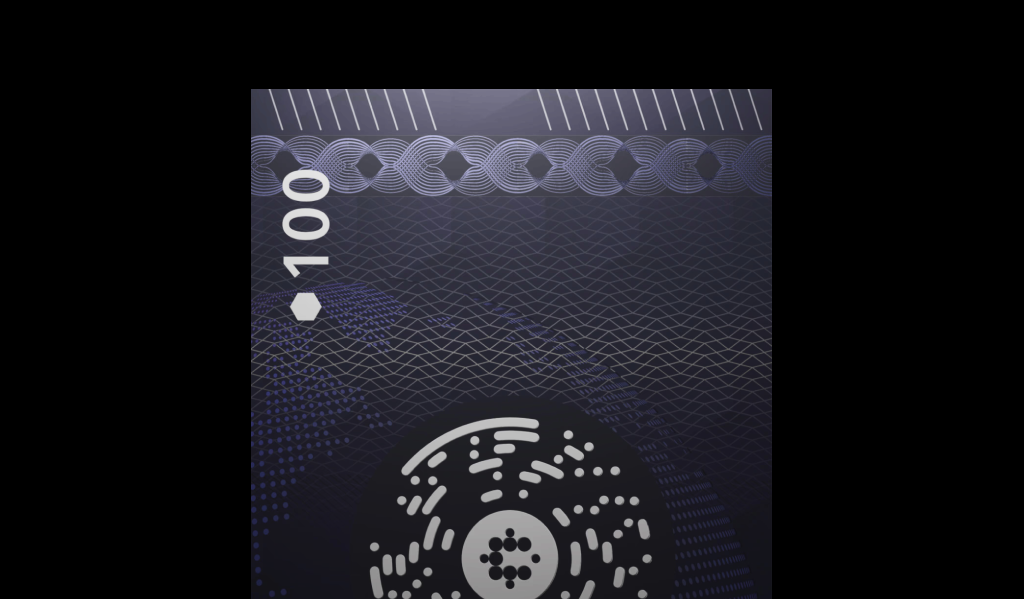
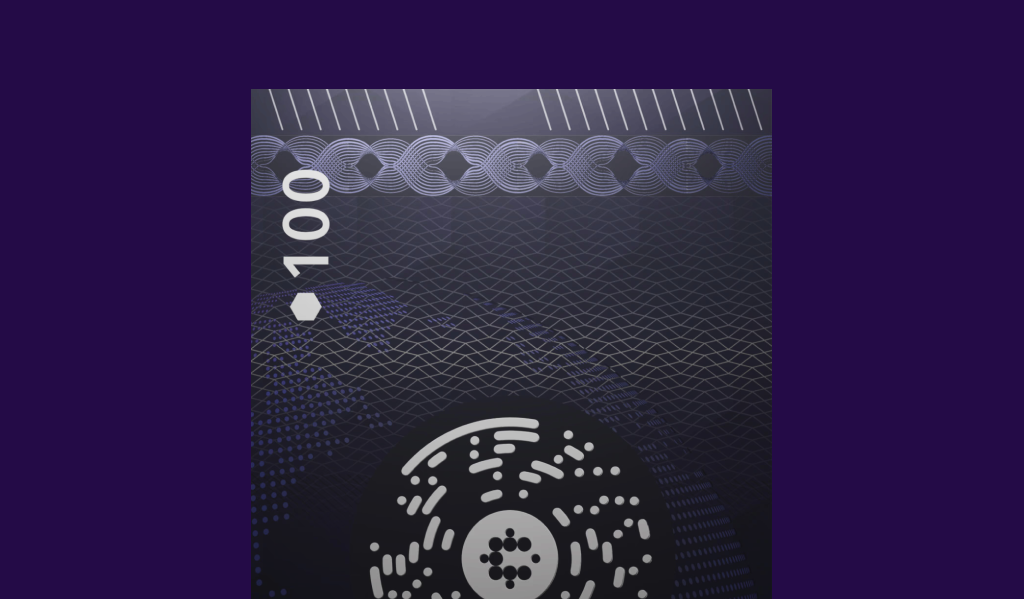
fix: update the style of app

diff --git a/app/components/multistep-sidebar.tsx b/app/components/multistep-sidebar.tsx
@@ -22,18 +22,18 @@ export type MultiStepSidebarProps = React.HTMLAttributes<HTMLDivElement> & {
 
 const stepperClasses = cn(
   // light
-  "[--step-color:hsl(var(--nextui-secondary-400))]",
-  "[--active-color:hsl(var(--nextui-secondary-400))]",
-  "[--inactive-border-color:hsl(var(--nextui-secondary-200))]",
-  "[--inactive-bar-color:hsl(var(--nextui-secondary-200))]",
-  "[--inactive-color:hsl(var(--nextui-secondary-300))]",
+    "[--step-color:#50defb]",
+    "[--active-color:#50defb]",
+    "[--inactive-border-color:#20A6C1]",
+    "[--inactive-bar-color:#20A6C1]",
+    "[--inactive-color:#20A6C1]",
   // dark
-  "dark:[--step-color:rgba(255,255,255,0.1)]",
-  "dark:[--active-color:hsl(var(--nextui-foreground-600))]",
-  "dark:[--active-border-color:rgba(255,255,255,0.5)]",
-  "dark:[--inactive-border-color:rgba(255,255,255,0.1)]",
-  "dark:[--inactive-bar-color:rgba(255,255,255,0.1)]",
-  "dark:[--inactive-color:rgba(255,255,255,0.2)]",
+    // "dark:[--step-color:rgba(255,255,255,0.1)]",
+    // "dark:[--active-color:hsl(var(--nextui-foreground-600))]",
+    // "dark:[--active-border-color:rgba(255,255,255,0.5)]",
+    // "dark:[--inactive-border-color:rgba(255,255,255,0.1)]",
+    // "dark:[--inactive-bar-color:rgba(255,255,255,0.1)]",
+    // "dark:[--inactive-color:rgba(255,255,255,0.2)]",
 );
 
 const MultiStepSidebar = React.forwardRef<HTMLDivElement, MultiStepSidebarProps>(
@@ -41,12 +41,12 @@ const MultiStepSidebar = React.forwardRef<HTMLDivElement, MultiStepSidebarProps>
     return (
       <div
         ref={ref}
-        className={cn("flex h-[calc(110vh_-_40px)] w-full gap-x-2", className)}
+        className={cn("flex h-screen p-[24px] w-full gap-x-2", className)}
         {...props}
       >
-        <div className="flex hidden h-full w-[344px] flex-shrink-0 flex-col items-start gap-y-8 rounded-large bg-custom-vertical-gradient px-8 py-6 shadow-small lg:flex">
+        <div className="hidden h-full w-[344px] flex-shrink-0 flex-col items-start gap-y-8 rounded-large bg-custom-vertical-gradient px-8 py-6 shadow-small lg:flex">
           <Button
-            className="bg-default-50 text-small font-medium text-default-500 shadow-lg"
+            className="bg-black text-small font-medium text-neutral-50"
             isDisabled={currentPage === 0}
             radius="full"
             variant="flat"
@@ -62,13 +62,12 @@ const MultiStepSidebar = React.forwardRef<HTMLDivElement, MultiStepSidebarProps>
                 PREVIEW
               </Chip>
             </div>
-            <div className="mt-1 text-base font-medium leading-6 text-default-500">
+            <div className="mt-1 text-base font-medium leading-6 text-neutral-400">
               Follow the simple steps to create your professional headshots.
             </div>
           </div>
           <VerticalSteps
             className={stepperClasses}
-            color="secondary"
             currentStep={currentPage}
             steps={[
               {
@@ -83,7 +82,7 @@ const MultiStepSidebar = React.forwardRef<HTMLDivElement, MultiStepSidebarProps>
             ]}
             onStepChange={onChangePage}
           />
-          <SupportCard className="w-full backdrop-blur-lg lg:bg-white/40 lg:shadow-none dark:lg:bg-white/20" />
+          <SupportCard className="w-full backdrop-blur-lg lg:bg-black lg:shadow-none dark:lg:bg-black" />
         </div>
         <div className="flex h-full w-full flex-col items-center gap-4 md:p-4">
           <div className="sticky top-0 z-10 w-full rounded-large bg-custom-horizontal-gradient from-default-100 via-danger-100 to-secondary-100 py-4 shadow-small md:max-w-xl lg:hidden">
@@ -106,7 +105,7 @@ const MultiStepSidebar = React.forwardRef<HTMLDivElement, MultiStepSidebarProps>
               />
             </div>
           </div>
-          <div className="h-full w-full p-4 sm:max-w-md md:max-w-lg">
+          <div className="h-full w-full p-4">
             {children}
             <MultistepNavigationButtons
               backButtonProps={{ isDisabled: currentPage === 0 }}

diff --git a/app/components/select-preferences.tsx b/app/components/select-preferences.tsx
@@ -38,8 +38,8 @@ const SelectPreferences: React.FC<SelectPreferencesProps> = ({
   return (
     <div className="flex max-w-4xl flex-col items-center py-12">
       <div className="flex max-w-xl flex-col text-center">
-        <h2 className="font-medium text-primary">Settings</h2>
-        <h1 className="text-4xl font-medium tracking-tight">Select Your Style</h1>
+        <h2 className="font-medium text-upic-primary">Settings</h2>
+        <h1 className="text-4xl text-neutral-300 font-medium tracking-tight">Select Your Style</h1>
         <Spacer y={4} />
         <h2 className="text-large text-default-500">
           Choose Your Preferences for your professional headshot.
@@ -49,6 +49,7 @@ const SelectPreferences: React.FC<SelectPreferencesProps> = ({
       <Tabs
         classNames={{
           tab: "data-[hover-unselected=true]:opacity-90 px-4",
+          tabList: "bg-black/90"
         }}
         radius="full"
         size="lg"
@@ -69,7 +70,7 @@ const SelectPreferences: React.FC<SelectPreferencesProps> = ({
         value={selectedOption}
         onValueChange={handleOptionChange}
         classNames={{
-          wrapper: "grid grid-cols-1 gap-6 md:gap-4 sm:grid-cols-2 lg:grid-cols-2",
+          wrapper: "w-fit grid grid-cols-1 gap-6 md:gap-4 sm:grid-cols-2 lg:grid-cols-2",
         }}
       >
         {preferenceOptions
@@ -79,11 +80,12 @@ const SelectPreferences: React.FC<SelectPreferencesProps> = ({
               <PreferenceRadioItem
                 value={option.key}
                 title={option.title.replace(' Male', '').replace(' Female', '')}
+                className="flex"
                 description={
                   <img
                     src={option.imageUrl}
                     alt={option.title}
-                    className="w-3/4 max-w-[280px] rounded-lg transform transition-transform duration-300 hover:scale-105"
+                    className="w-[300px] rounded-lg transform transition-transform duration-300 hover:scale-105"
                   />
                 }
               />

diff --git a/app/components/upload-image.tsx b/app/components/upload-image.tsx
@@ -36,8 +36,8 @@ const UploadImage = React.forwardRef<HTMLFormElement, UploadImageProps>(
     return (
       <>
         <div className="flex max-w-xl flex-col text-center">
-          <h2 className="font-medium text-primary">References</h2>
-          <h1 className="text-4xl font-medium tracking-tight">Upload Your Images</h1>
+          <h2 className="font-medium text-upic-primary">References</h2>
+          <h1 className="text-4xl text-neutral-300 font-medium tracking-tight">Upload Your Images</h1>
           <Spacer y={4} />
           <h2 className="text-large text-default-500">
           Provide clear face photos for accurate AI generation.
@@ -47,7 +47,7 @@ const UploadImage = React.forwardRef<HTMLFormElement, UploadImageProps>(
         <form
           ref={ref}
           {...props}
-          className={cn("flex w-full flex-col items-start rounded-medium text-default-500 bg-default-100 transition-colors hover:bg-default-200/70 border-small border-2 border-default-200", className)}
+          className={cn("flex w-full flex-col items-start rounded-medium text-default-500 bg-black/90 transition-colors hover:bg-black/70 border-2 border-default-100", className)}
         >
           <div {...getRootProps({ className: "group flex w-full flex-col items-center gap-2 p-4" })}>
             <input {...getInputProps()} />

diff --git a/app/ai-headshots-list/page.tsx b/app/ai-headshots-list/page.tsx
@@ -32,8 +32,8 @@ const AIHeadshotsList = () => {
   return (
     <div className="flex flex-col items-center py-12">
       <div className="max-w-xl text-center">
-        <h2 className="font-medium text-primary">Your AI Headshots</h2>
-        <h1 className="text-4xl font-medium tracking-tight">Here are your generated headshots</h1>
+        <h2 className="font-medium text-upic-primary">Your AI Headshots</h2>
+        <h1 className="text-4xl font-medium tracking-tight text-neutral-300">Here are your generated headshots</h1>
         <Spacer y={4} />
         <h2 className="text-large text-default-500">
           Your images are generating and it may take a few minutes. Please do not close or refresh the window.
@@ -62,7 +62,7 @@ const AIHeadshotsList = () => {
         {!loading && (
           <div className="flex justify-center gap-4 mt-8">
             <Button
-              className="relative overflow-hidden rounded-xlg hover:-translate-y-1 px-12 shadow-xl"
+              className="relative bg-black/90 overflow-hidden rounded-xlg hover:-translate-y-1 px-12 shadow-xl"
               size="lg"
               onPress={() => alert('Download images functionality')}
             >

diff --git a/app/globals.css b/app/globals.css
@@ -18,19 +18,13 @@
 }
 
 body {
-  color: rgb(var(--foreground-rgb));
-  background: linear-gradient(
-    to bottom,
-    transparent,
-    rgb(var(--background-end-rgb))
-  ) rgb(var(--background-start-rgb));
+  /* color: rgb(var(--foreground-rgb)); */
+  background: linear-gradient(80.94deg, #0B0118 2.62%, rgba(22, 4, 38, 0.95) 25%, rgba(39, 8, 80, 0.95) 48.01%, rgba(32, 6, 66, 0.95) 70%, #1C033D 95.31%)
 }
 
 body {
   font-family: 'SF Pro Text', 'SF Pro Icons', 'Helvetica Neue', 'Helvetica',
     'Arial', sans-serif;
-  padding: 20px 20px 60px;
-  margin: 0 auto;
 }
 
 @layer utilities {
@@ -65,7 +59,7 @@ body {
 }
 
 .custom-gradient-bg {
-  background: radial-gradient(ellipse 80% 50% at 50% -20%, rgba(0,24,51,.6), rgba(25,8,43,.3));
+  /* background: radial-gradient(ellipse 80% 50% at 50% -20%, rgba(0,24,51,.6), rgba(25,8,43,.3)); */
 }
 /* Add this to your global CSS file */
 .custom-radio span[aria-hidden="true"] {

diff --git a/app/components/preference-radio-item.tsx b/app/components/preference-radio-item.tsx
@@ -23,12 +23,13 @@ const PreferenceRadioItem = React.forwardRef<HTMLInputElement, PreferenceRadioIt
         ...classNames,
         label: cn("static", classNames?.label),
         base: cn(
-          "relative w-full inline-flex m-0 bg-content1 hover:bg-content2 items-center justify-between",
-          "flex-row-reverse cursor-pointer rounded-lg gap-4 p-4 !border-medium border-default-200",
+          "relative w-full inline-flex m-0 bg-black/90 hover:bg-black/70 items-center justify-between",
+          "flex-row-reverse cursor-pointer rounded-lg gap-4 p-4 !border-medium border-default-100",
           "data-[selected=true]:border-primary",
           classNames?.base,
           className,
         ),
+        wrapper: "flex"
       }}
     >
       <div className="flex items-center">

diff --git a/app/components/code-pay.tsx b/app/components/code-pay.tsx
@@ -35,11 +35,11 @@ const CodePay = (props: CardProps & { onNext: () => void }) => {
   return (
     <div className="flex flex-col items-center py-12">
       <div className="flex max-w-xl flex-col text-center">
-        <h2 className="font-medium text-primary">Payment</h2>
-        <h1 className="text-4xl font-medium tracking-tight">Submit Your Payment</h1>
+        <h2 className="font-medium text-upic-primary">Payment</h2>
+        <h1 className="text-4xl text-neutral-300 font-medium tracking-tight">Submit Your Payment</h1>
       </div>
       <Spacer y={8} />
-      <Card className="w-[420px]" {...props}>
+      <Card className="w-[420px] bg-black/90" {...props}>
         <CardBody className="px-3 pb-1">
           <Image
             alt="Card image"

diff --git a/app/styles.css b/app/styles.css
@@ -3,9 +3,5 @@
 @tailwind utilities;
 
 body {
-    font-family: 'SF Pro Text', 'SF Pro Icons', 'Helvetica Neue', 'Helvetica',
-      'Arial', sans-serif;
-    padding: 20px 20px 60px;
-    max-width: 680px;
-    margin: 0 auto;
+    font-family: 'SF Pro Text', 'SF Pro Icons', 'Helvetica Neue', 'Helvetica', 'Arial', sans-serif;
   }

diff --git a/app/layout.tsx b/app/layout.tsx
@@ -7,7 +7,7 @@ import './globals.css';
 export default function RootLayout({ children }: { children: React.ReactNode }) {
   return (
     <html lang="en">
-      <body className='dark'>
+      <body className='dark min-h-screen'>
         <NextUIProvider>
           {children}
         </NextUIProvider>

diff --git a/app/page.tsx b/app/page.tsx
@@ -1,5 +1,5 @@
 import React from 'react';
-import App from './components/App';
+import App from './App';
 
 export default function Home() {
   return (
